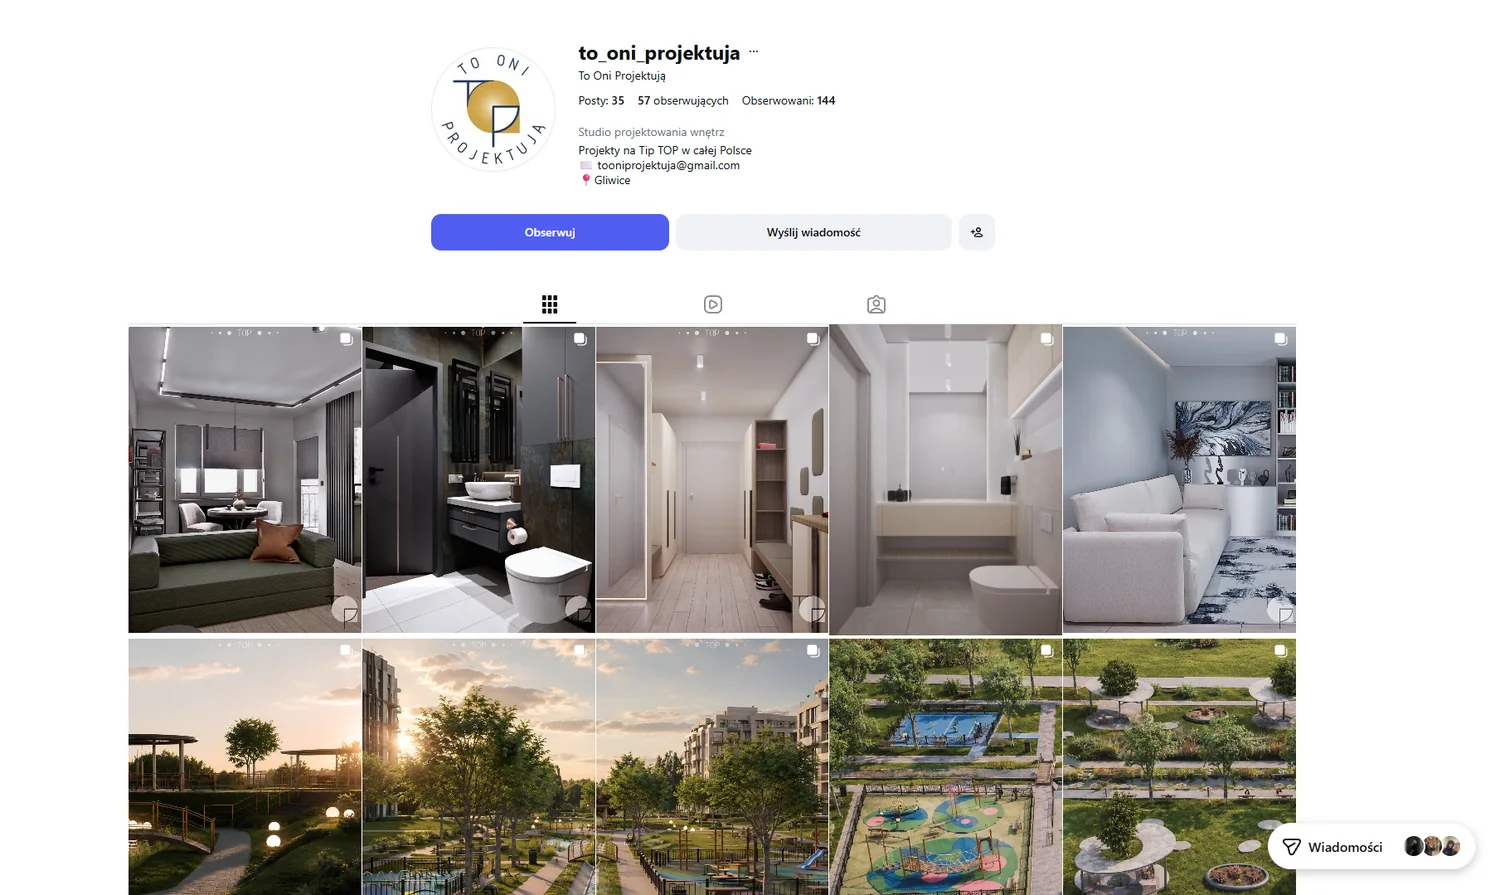
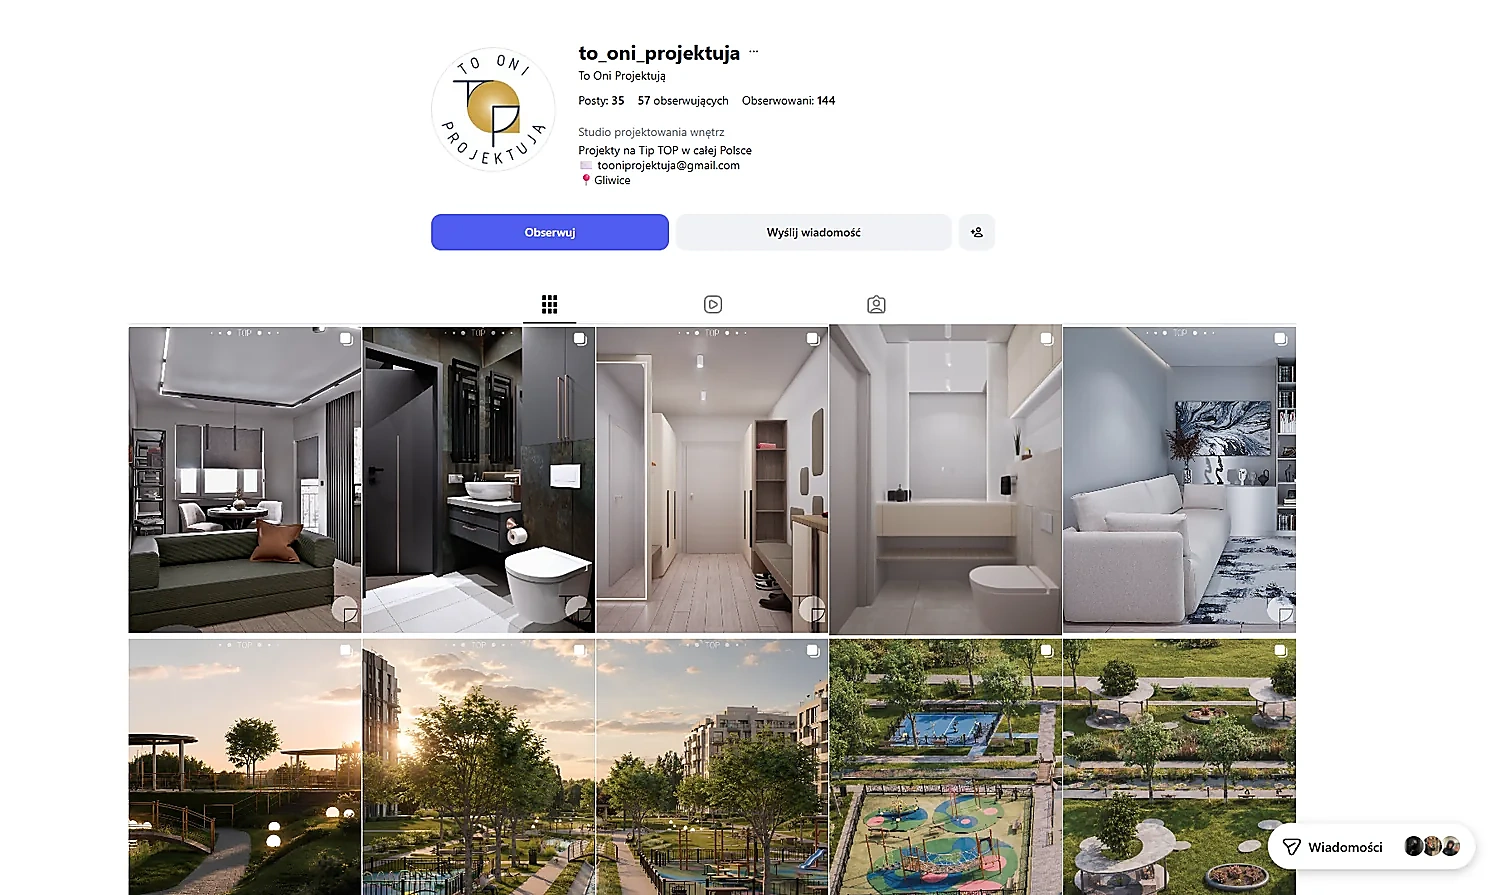
Add files via upload

diff --git a/index.html b/index.html
@@ -17,7 +17,7 @@
   <link rel="preconnect" href="https://fonts.googleapis.com">
   <link rel="preconnect" href="https://fonts.gstatic.com" crossorigin>
   <link href="https://fonts.googleapis.com/css2?family=DM+Sans:wght@400;500;600;700&family=Newsreader:opsz,wght@6..72,400;6..72,500;6..72,600&display=swap" rel="stylesheet">
-  <link rel="stylesheet" href="style.css?v=tooni41-final-details">
+  <link rel="stylesheet" href="style.css?v=tooni42-final-layout">
   <script type="application/ld+json">{"@context": "https://schema.org", "@type": "InteriorDesigner", "name": "To Oni Projektują", "url": "https://jakubskrzypiec.github.io/tooniprojektuja/", "image": "https://jakubskrzypiec.github.io/tooniprojektuja/hero-generated.jpg", "telephone": "+48 794 530 590", "email": "tooniprojektuja@gmail.com", "address": {"@type": "PostalAddress", "addressLocality": "Gliwice", "postalCode": "44-100", "addressCountry": "PL"}, "sameAs": ["https://www.instagram.com/to_oni_projektuja/", "https://www.facebook.com/61583774015406/"]}</script>
 </head>
 
@@ -130,8 +130,8 @@
 
       <div class="project-viewport" data-project-viewport>
         <div class="project-arrows-overlay arrows" aria-label="Sterowanie galerią">
-          <button type="button" data-project-prev aria-label="Zwolnij karuzelę o 5%" title="Zwolnij karuzelę o 5%"><span>←</span></button>
-          <button type="button" data-project-next aria-label="Przyspiesz karuzelę o 5%" title="Przyspiesz karuzelę o 5%"><span>→</span></button>
+          <button type="button" data-project-prev aria-label="Zwolnij karuzelę o 5%" title="Zwolnij karuzelę o 5%"><span>−</span></button>
+          <button type="button" data-project-next aria-label="Przyspiesz karuzelę o 5%" title="Przyspiesz karuzelę o 5%"><span>+</span></button>
         </div>
         <div class="project-track" data-project-track>
           <article class="project-card" data-project-card data-image="garderoba.jpg" data-title="Garderoba na wymiar" data-category="Projekt wnętrza" data-place="Gliwice" data-area="18 m²" data-description="Każdy projekt prowadzimy od przemyślanego układu funkcjonalnego do spójnego obrazu wnętrza. W realizacji porządkujemy proporcje, materiały, światło i detal tak, aby przestrzeń była wygodna w codziennym użytkowaniu i pozostała wizualnie spokojna. Dokumentacja i rozwiązania są przygotowywane z myślą o sprawnym przejściu od koncepcji do wykonania.">
@@ -288,7 +288,7 @@
         <div class="process-list reveal">
           <article class="process-item info-glow-card is-open">
             <button type="button" data-process-toggle aria-expanded="true">
-              <span>→</span><strong>Analiza projektowa</strong><small>Dopasowanie potrzeb do oczekiwań.</small>
+              <span>↗</span><strong>Analiza projektowa</strong><small>Dopasowanie potrzeb do oczekiwań.</small>
             </button>
             <div class="process-answer"><div>
               <p>Analiza jest kluczowym elementem sprawdzającym mocne i słabe strony rozwiązań i możliwości projektowo funkcjonalnych lokalu. Wpływają na to uwarunkowania techniczne, normy budowlane jak i zasady ergonomii. Przy analizie niezwykle istotne jest poznanie docelowego użytkownika lokalu. Inne czynniki składają się na projektowanie dla osób wysokich, niskich, dla właściciela lokalu będącego użytkownikiem lokalu czy dla użytkownika losowego np. przy wynajmie mieszkania bądź dalszej odsprzedaży lokalu. Analiza zapewnia klarowny ogląd możliwości stosowania poszczególnych rozwiązań projektowych.</p>
@@ -298,7 +298,7 @@
 
           <article class="process-item info-glow-card">
             <button type="button" data-process-toggle aria-expanded="false">
-              <span>→</span><strong>Inwentaryzacja</strong><small>Pomiar i dokumentacja stanu istniejącego.</small>
+              <span>↗</span><strong>Inwentaryzacja</strong><small>Pomiar i dokumentacja stanu istniejącego.</small>
             </button>
             <div class="process-answer"><div>
               <p>Jest to kluczowy element dokumentacji. Inwentaryzacja pomiarowa zalecana jest zawsze, niezależnie od stanu technicznego budynku czy stanu istniejącego. Polega ona na dokładnym pomiarze przez Architekta wszystkich elementów istniejących w lokalu. W skład elementów pomiarowych wchodzą pomiary ścian i pomieszczeń, wszelkich otworów okiennych, drzwiowych, przyłączy elektrycznych, przyłączy wod-kan oraz instalacji. Na podstawie pomiarów Inwestor otrzymuje dokumentację w postaci rzutów 2D z naniesionymi elementami pomiarowymi oraz dokumentację fotograficzną lokalu.</p>
@@ -308,7 +308,7 @@
 
           <article class="process-item info-glow-card">
             <button type="button" data-process-toggle aria-expanded="false">
-              <span>→</span><strong>Układ funkcjonalny</strong><small>Komunikacja, ergonomia i funkcjonalność.</small>
+              <span>↗</span><strong>Układ funkcjonalny</strong><small>Komunikacja, ergonomia i funkcjonalność.</small>
             </button>
             <div class="process-answer"><div>
               <p>Każdą inwestycję rozpoczyna opracowanie układu funkcjonalnego, który stanowi schematyczną reprezentację projektowanego wnętrza oraz podstawę do dalszych prac projektowych. Na tym etapie określany jest optymalny podział przestrzeni, rozmieszczenie stref funkcjonalnych oraz wstępna lokalizacja wyposażenia. Proces koncentruje się na zasadach ergonomii, funkcjonalności oraz komforcie przyszłego użytkowania. Analizowane są ciągi komunikacyjne, sposób korzystania z pomieszczeń oraz wzajemne relacje pomiędzy strefami.</p>
@@ -318,7 +318,7 @@
 
           <article class="process-item info-glow-card">
             <button type="button" data-process-toggle aria-expanded="false">
-              <span>→</span><strong>Projekt koncepcyjny</strong><small>Wizualna charakterystyka wnętrza.</small>
+              <span>↗</span><strong>Projekt koncepcyjny</strong><small>Wizualna charakterystyka wnętrza.</small>
             </button>
             <div class="process-answer"><div>
               <p>Etap koncepcyjny skupia się bezpośrednio na charakterze wnętrza i jego docelowym wyglądzie. Architekt bazuje na wytycznych Inwestora, pracując nad bryłami 3D i wiernym wyglądem przyszłego lokalu. Prowadzimy stałe konsultacje dotyczące doboru materiałów, zapraszamy Inwestorów do salonów lub — przy współpracy zdalnej — organizujemy wsparcie lokalnych salonów i próbki materiałów. Wszystkie elementy omawiane są z Inwestorem dla zachowania zadowalających efektów.</p>
@@ -328,7 +328,7 @@
 
           <article class="process-item info-glow-card">
             <button type="button" data-process-toggle aria-expanded="false">
-              <span>→</span><strong>Projekt wykonawczy</strong><small>Szczegółowa dokumentacja do wykonania projektu.</small>
+              <span>↗</span><strong>Projekt wykonawczy</strong><small>Szczegółowa dokumentacja do wykonania projektu.</small>
             </button>
             <div class="process-answer"><div>
               <p>Projekt wykonawczy stanowi ostatni etap opracowania projektu kompleksowego oraz podstawę do realizacji Inwestycji. Dokumentacja zawiera rzuty lokalu, schematy instalacji elektrycznych i wodno-kanalizacyjnych, rzuty sufitów, oznaczenia materiałów wykończeniowych, schematy wyburzeń oraz rysunki mebli wykonywanych na wymiar. Rozwiązania są konsultowane z wykonawcami i branżystami, a na etapie realizacji zapewniamy wsparcie Inwestorowi i wykonawcom. Projekt zamyka kosztorys projektowy ze zbiorem wycen, ofert i informacji zakupowych.</p>
@@ -338,7 +338,7 @@
 
           <article class="process-item info-glow-card">
             <button type="button" data-process-toggle aria-expanded="false">
-              <span>→</span><strong>Nadzór autorski</strong><small>Wsparcie podczas realizacji.</small>
+              <span>↗</span><strong>Nadzór autorski</strong><small>Wsparcie podczas realizacji.</small>
             </button>
             <div class="process-answer"><div>
               <p>Nadzór nad realizacją inwestycji stanowi rozszerzenie Projektu Wykonawczego i jest usługą dedykowaną Inwestorom, którzy oczekują wsparcia również na etapie prac wykończeniowych. Obejmuje cykliczne wizyty Architekta na budowie, podczas których weryfikowana jest jakość wykonanych robót oraz zgodność prac z dokumentacją projektową. Liczba wizyt ustalana jest indywidualnie. Obecność Architekta usprawnia komunikację, ogranicza ryzyko błędów wykonawczych i pozwala szybciej reagować na pytania wymagające decyzji projektowych.</p>
@@ -364,7 +364,7 @@
             <a class="social" href="https://www.facebook.com/61583774015406/" target="_blank" rel="noopener" aria-label="Facebook"><svg viewBox="0 0 24 24"><path d="M14.2 8.2h2.9V4.3c-.5-.1-2.1-.2-4-.2-3.9 0-6.6 2.4-6.6 6.8v3.8H2v4.4h4.5V30H12V19.1h4.6l.7-4.4H12v-3.4c0-1.3.4-2.2 2.2-2.2z" transform="scale(.76) translate(3.1 0)"></path></svg></a>
             <a class="social" href="https://www.instagram.com/to_oni_projektuja/" target="_blank" rel="noopener" aria-label="Instagram"><svg viewBox="0 0 24 24"><rect x="3" y="3" width="18" height="18" rx="5"></rect><circle cx="12" cy="12" r="4"></circle><circle cx="17.5" cy="6.5" r="1"></circle></svg></a>
           </div>
-          <a class="button faq-contact-button" href="#kontakt">Umów się na spotkanie <span>→</span></a>
+          <a class="button faq-contact-button" href="#kontakt">Umów się na spotkanie <span>↗</span></a>
         </aside>
         <div class="faq-list">
           <details class="reveal info-glow-card">
@@ -455,7 +455,7 @@
             <label><span>Planowany termin</span><input type="text" name="Termin"></label>
             <label><span>Informacje o inwestycji</span><textarea name="Wiadomość" rows="5" required></textarea></label>
             <label class="consent"><input type="checkbox" required><span>Zgadzam się na kontakt w sprawie projektu.</span></label>
-            <button class="button" type="submit">Wyślij zapytanie <span>→</span></button>
+            <button class="button" type="submit">Wyślij zapytanie <span>↗</span></button>
             <p class="success" data-success>Wiadomość została wysłana. Dziękujemy.</p>
           </form>
         </div>

diff --git a/style.css b/style.css
@@ -4247,3 +4247,223 @@ main>section:not(.hero){
   .social-device-caption{left:9px;right:9px;bottom:9px;padding:9px 10px}
   .social-device--laptop .social-device-caption{left:16px;right:16px;bottom:24px}
 }
+
+
+/* ================================================================
+   V42 FINAL — layout polish, unified bubbles, viewport-fit sections
+   These rules are intentionally authoritative over legacy revisions.
+   ================================================================ */
+
+/* Real spacing after hero. Use hero margin (not about margin) so the gap
+   cannot collapse or be neutralised by older .about rules. */
+.hero{
+  margin-bottom:clamp(56px,5vw,86px)!important;
+}
+.about{
+  margin-top:0!important;
+  border-radius:30px!important;
+  overflow:hidden!important;
+}
+
+/* One control language everywhere: compact rounded bubble with one soft
+   cut corner. No tails, pseudo-lines, rotation, translation or shape change. */
+.social,
+.project-arrows-overlay button,
+.project-card>button>span,
+.process-item>button>span,
+.faq-list summary>span,
+.hero-action>span,
+.contact-form .button>span,
+.faq-contact-button>span,
+.footer-top-link>span,
+.social-device-caption i{
+  border:1px solid currentColor!important;
+  border-radius:13px 13px 5px 13px!important;
+  background:transparent!important;
+  transform:none!important;
+  translate:none!important;
+  rotate:none!important;
+  scale:1!important;
+  box-shadow:none!important;
+  overflow:hidden!important;
+  transition:background-color .2s ease,color .2s ease,border-color .2s ease,box-shadow .2s ease!important;
+}
+.social::before,.social::after,
+.project-arrows-overlay button::before,.project-arrows-overlay button::after,
+.project-card>button>span::before,.project-card>button>span::after,
+.process-item>button>span::before,.process-item>button>span::after,
+.faq-list summary>span::before,.faq-list summary>span::after,
+.hero-action>span::before,.hero-action>span::after,
+.contact-form .button>span::before,.contact-form .button>span::after,
+.faq-contact-button>span::before,.faq-contact-button>span::after,
+.footer-top-link>span::before,.footer-top-link>span::after,
+.social-device-caption i::before,.social-device-caption i::after{
+  content:none!important;
+  display:none!important;
+}
+.social svg,
+.project-arrows-overlay button span,
+.project-card>button>span,
+.process-item>button>span,
+.faq-list summary>span,
+.hero-action>span,
+.contact-form .button>span,
+.faq-contact-button>span,
+.footer-top-link>span,
+.social-device-caption i{
+  transform:none!important;
+  translate:none!important;
+  rotate:none!important;
+  transition:none!important;
+}
+.social:hover,.social:focus-visible,
+.project-arrows-overlay button:hover,.project-arrows-overlay button:focus-visible,
+.project-card>button:hover>span,.project-card>button:focus-visible>span,
+.process-item>button:hover>span,.process-item>button:focus-visible>span,
+.faq-list summary:hover>span,.faq-list summary:focus-visible>span,
+.hero-action:hover>span,.hero-action:focus-visible>span,
+.contact-form .button:hover>span,.contact-form .button:focus-visible>span,
+.faq-contact-button:hover>span,.faq-contact-button:focus-visible>span,
+.footer-top-link:hover>span,.footer-top-link:focus-visible>span,
+.social-device:hover .social-device-caption i,.social-device:focus-visible .social-device-caption i{
+  background:var(--blue)!important;
+  border-color:var(--blue)!important;
+  color:#fff!important;
+  transform:none!important;
+  translate:none!important;
+  rotate:none!important;
+  scale:1!important;
+  box-shadow:0 7px 20px rgba(52,87,152,.16)!important;
+}
+.footer .social:hover,.footer .social:focus-visible,
+.footer .footer-top-link:hover>span,.footer .footer-top-link:focus-visible>span{
+  background:#fff!important;
+  border-color:#fff!important;
+  color:var(--blue)!important;
+}
+/* Hero controls stay fixed in place — only bubble fill changes. */
+.hero-action,.hero-action:hover,.hero-action:focus-visible{
+  transform:none!important;
+  translate:none!important;
+  opacity:1!important;
+}
+/* FAQ open state does not reshape/rotate the control. */
+.faq-list details[open] summary>span{
+  transform:none!important;
+  rotate:none!important;
+}
+
+/* Desktop: keep FAQ as one coherent viewport-sized composition while closed. */
+@media (min-width:1101px){
+  .faq{
+    padding:clamp(48px,5.2vh,68px) 0 clamp(54px,5.8vh,78px)!important;
+  }
+  .faq-grid--contact{
+    width:min(1500px,calc(100vw - 44px))!important;
+    grid-template-columns:minmax(280px,.68fr) minmax(0,1.32fr)!important;
+    gap:clamp(42px,4vw,70px)!important;
+    align-items:stretch!important;
+  }
+  .faq-contact-card{
+    min-height:0!important;
+    padding:clamp(28px,2.6vw,38px)!important;
+    border-radius:26px!important;
+  }
+  .faq-contact-card h2{
+    font-size:clamp(52px,4.4vw,68px)!important;
+    line-height:.92!important;
+  }
+  .faq-contact-card>p:not(.eyebrow){margin-top:14px!important;font-size:12px!important}
+  .faq-contact-links{margin-top:22px!important}
+  .faq-contact-links a{padding:11px 0!important}
+  .faq-socials{margin:18px 0!important;padding-top:0!important}
+  .faq-contact-button{margin-top:auto!important;min-height:44px!important}
+  .faq-list summary{
+    padding-block:clamp(12px,1.45vh,16px)!important;
+    font-size:clamp(21px,1.65vw,25px)!important;
+    line-height:1.08!important;
+    gap:18px!important;
+  }
+  .faq-list summary>span{width:34px!important;height:34px!important;flex:0 0 34px!important}
+  .faq-list details p{padding:0 46px 16px 0!important;font-size:11.5px!important;line-height:1.55!important}
+
+  /* Contact: text and form finish on the same baseline and fit one screen. */
+  .contact{
+    padding:clamp(62px,6.5vh,82px) 0 clamp(68px,7vh,92px)!important;
+  }
+  .contact-grid{
+    align-items:stretch!important;
+    gap:clamp(58px,6vw,88px)!important;
+  }
+  .contact-copy,.contact-form-wrap{
+    min-height:clamp(570px,66vh,625px)!important;
+    height:clamp(570px,66vh,625px)!important;
+  }
+  .contact-copy{
+    display:flex!important;
+    flex-direction:column!important;
+    justify-content:center!important;
+    padding-block:12px!important;
+  }
+  .contact-copy h2{font-size:clamp(62px,5.7vw,82px)!important;line-height:.9!important}
+  .contact-copy .lead{font-size:clamp(20px,1.75vw,27px)!important}
+  .contact-data{margin-top:28px!important}
+  .contact-data>a,.contact-data>div{padding:12px 0!important}
+  .contact-form-wrap{display:flex!important;flex-direction:column!important}
+  .contact-form-head{padding:20px 26px!important}
+  .contact-form{padding:22px 26px!important;flex:1!important}
+  .contact-form label{margin-bottom:12px!important;gap:6px!important}
+  .contact-form input,.contact-form textarea{padding:10px 12px!important}
+  .contact-form textarea{min-height:96px!important;max-height:120px!important}
+
+  /* Social media: full section comfortably fits into one desktop viewport. */
+  .social-draft{
+    padding:clamp(58px,6vh,74px) 0 clamp(68px,7vh,90px)!important;
+  }
+  .social-draft-head{
+    margin-bottom:clamp(26px,3vh,38px)!important;
+    gap:44px!important;
+  }
+  .social-draft-head h2{font-size:clamp(54px,5vw,76px)!important}
+  .social-draft-head>p{font-size:12.5px!important}
+  .social-draft-grid--devices{
+    width:min(940px,calc(100vw - 70px))!important;
+    min-height:clamp(390px,47vh,445px)!important;
+  }
+  .social-device--laptop{
+    width:min(690px,68vw)!important;
+  }
+  .social-device-laptop-screen{
+    padding:7px!important;
+    border-width:7px!important;
+    border-bottom-width:12px!important;
+    border-radius:18px 18px 9px 9px!important;
+  }
+  .social-device--phone{
+    width:218px!important;
+    height:410px!important;
+    margin-right:28px!important;
+    padding:8px 8px 58px!important;
+    border-width:6px!important;
+    border-radius:31px!important;
+  }
+  .social-device-phone-notch{width:62px!important;height:14px!important;top:4px!important}
+  .social-device-caption{left:10px!important;right:10px!important;bottom:10px!important;padding:9px 11px!important}
+  .social-device--laptop .social-device-caption{left:18px!important;right:18px!important;bottom:22px!important}
+}
+
+/* Keep screenshots crisp: never zoom/crop the profile captures. */
+.social-device-laptop-screen img,
+.social-device-phone-screen img{
+  object-fit:contain!important;
+  object-position:center top!important;
+  transform:none!important;
+  filter:none!important;
+  image-rendering:auto!important;
+  background:#fff!important;
+}
+
+@media(max-width:780px){
+  .hero{margin-bottom:36px!important}
+  .about{margin-top:0!important}
+}
